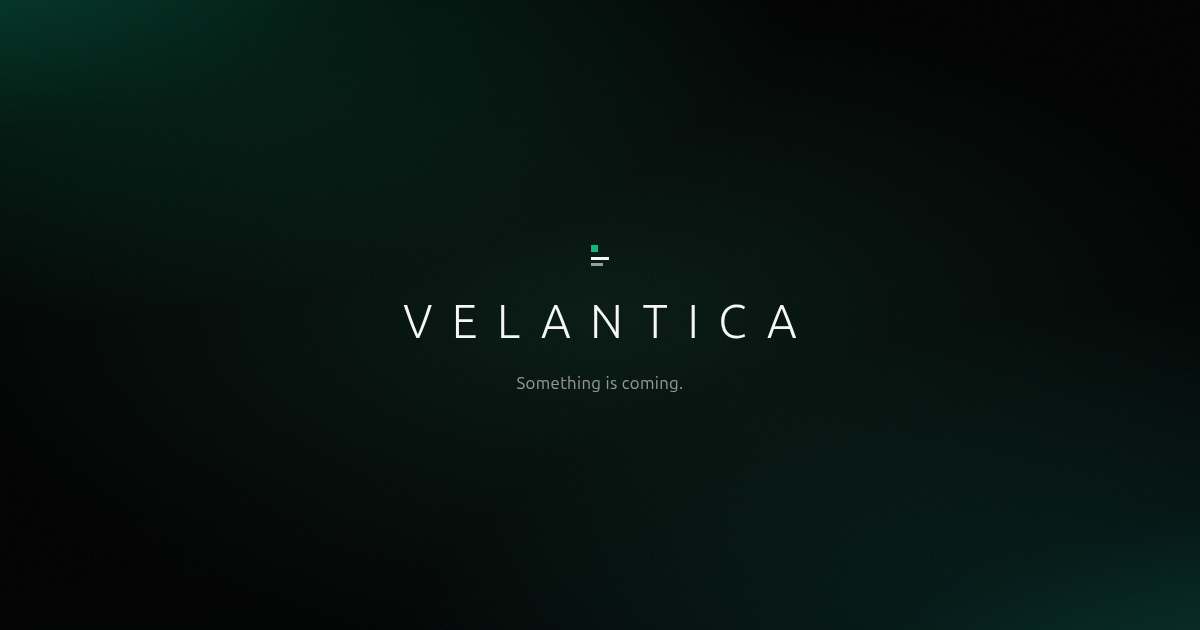
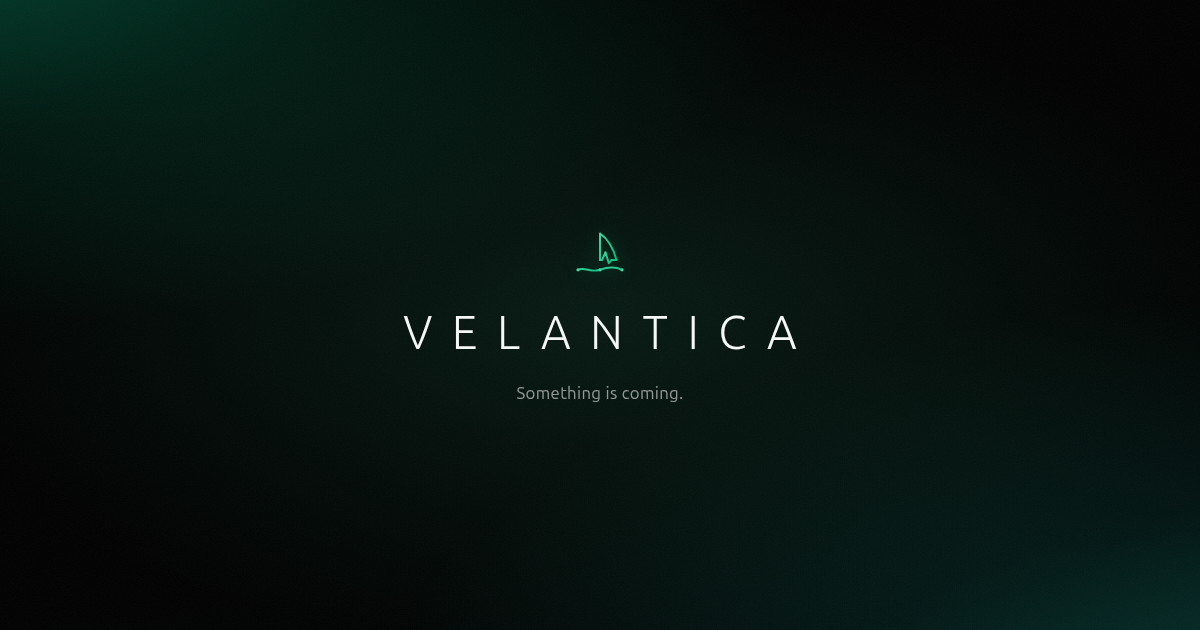
Replace placeholder mark with sail/heartbeat/wave line mark
Line-art interpretation of the logo concept (sail whose foot carries
a heartbeat, hull as a wave through three points). Applied to page,
favicon, apple-touch-icon and OG image.

diff --git a/index.html b/index.html
@@ -95,8 +95,9 @@
     }
 
     .mark {
-      width: clamp(26px, 3vw, 32px);
+      width: clamp(52px, 5.5vw, 68px);
       height: auto;
+      filter: drop-shadow(0 0 10px rgba(7, 185, 130, 0.35));
       opacity: 0;
       animation: rise 1.4s cubic-bezier(.2,.7,.2,1) 0.1s forwards;
     }
@@ -149,10 +150,22 @@
   <div class="grain" aria-hidden="true"></div>
 
   <main>
-    <svg class="mark" viewBox="0 0 32 32" aria-hidden="true" focusable="false">
-      <rect x="7" y="7"  width="7"  height="7" fill="#07B982"/>
-      <rect x="7" y="19" width="18" height="3" fill="#F5F7F6"/>
-      <rect x="7" y="25" width="12" height="3" fill="rgba(245,247,246,0.6)"/>
+    <svg class="mark" viewBox="0 0 60 48" aria-hidden="true" focusable="false" fill="none" stroke="url(#mk)" stroke-width="1.8" stroke-linecap="round" stroke-linejoin="round">
+      <defs>
+        <linearGradient id="mk" x1="0" y1="0" x2="1" y2="1">
+          <stop offset="0" stop-color="#3DD99E"/>
+          <stop offset="1" stop-color="#07B982"/>
+        </linearGradient>
+      </defs>
+      <!-- sail: mast and curved leech -->
+      <path d="M30 5V29M30 5c6 4 12 13 15 24"/>
+      <!-- foot of the sail carries the heartbeat -->
+      <path d="M30 29h2l3-7 3 10 2.5-3H45"/>
+      <!-- hull: a wave through three points -->
+      <path d="M10 38c6-3 12 3 20 0s14-3 20 0"/>
+      <circle cx="10" cy="38" r="1.5" fill="#3DD99E" stroke="none"/>
+      <circle cx="30" cy="38" r="1.5" fill="#3DD99E" stroke="none"/>
+      <circle cx="50" cy="38" r="1.5" fill="#3DD99E" stroke="none"/>
     </svg>
     <h1>Velantica</h1>
     <p>Something is coming.</p>
